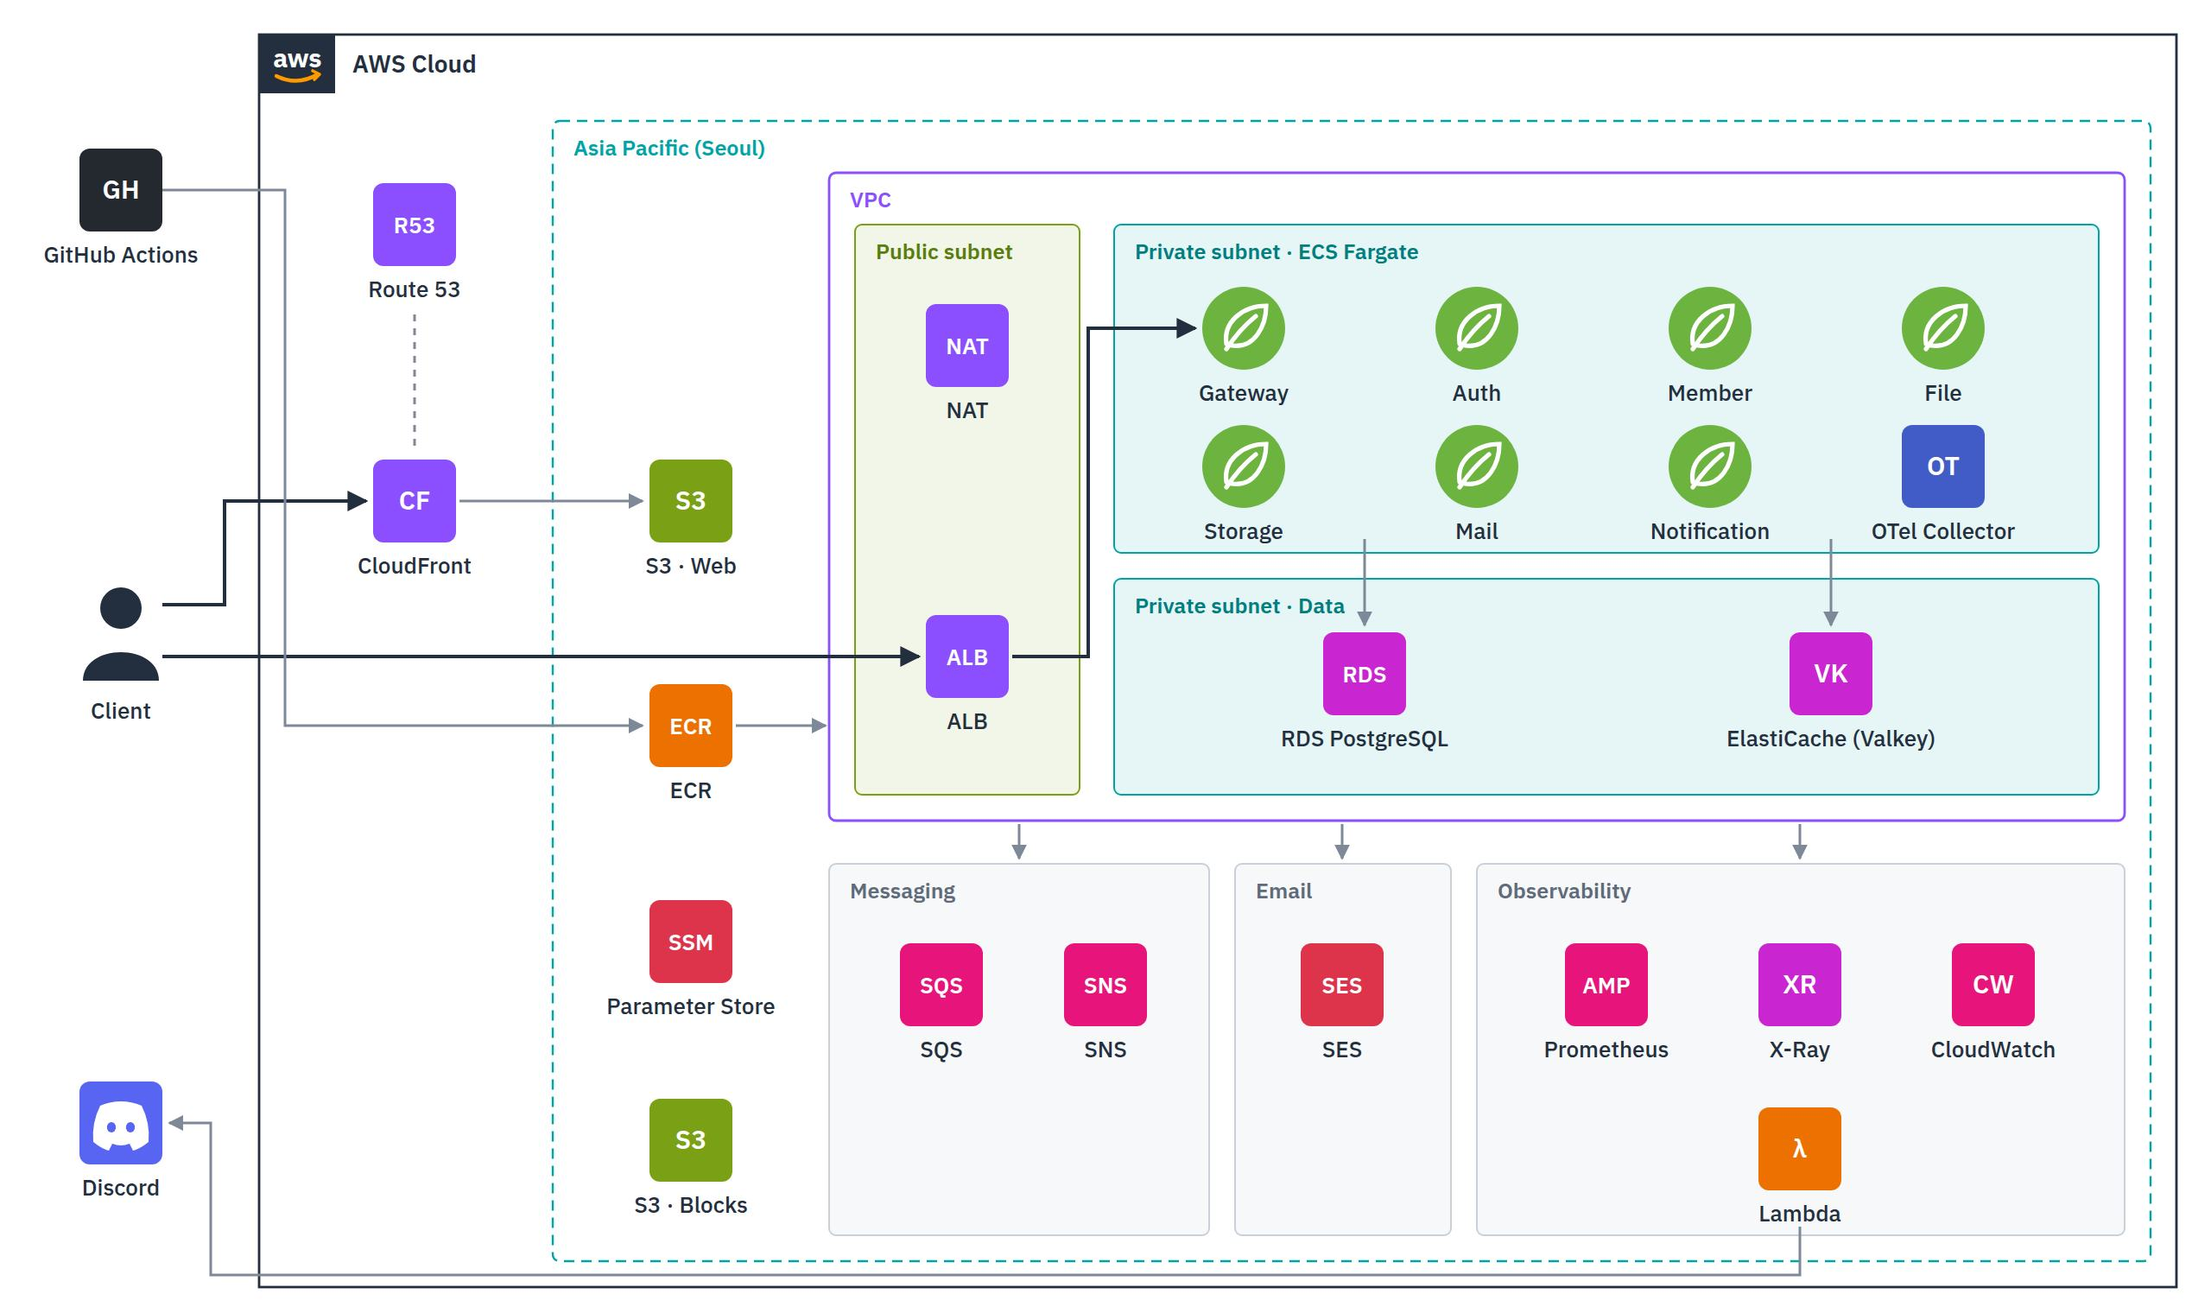
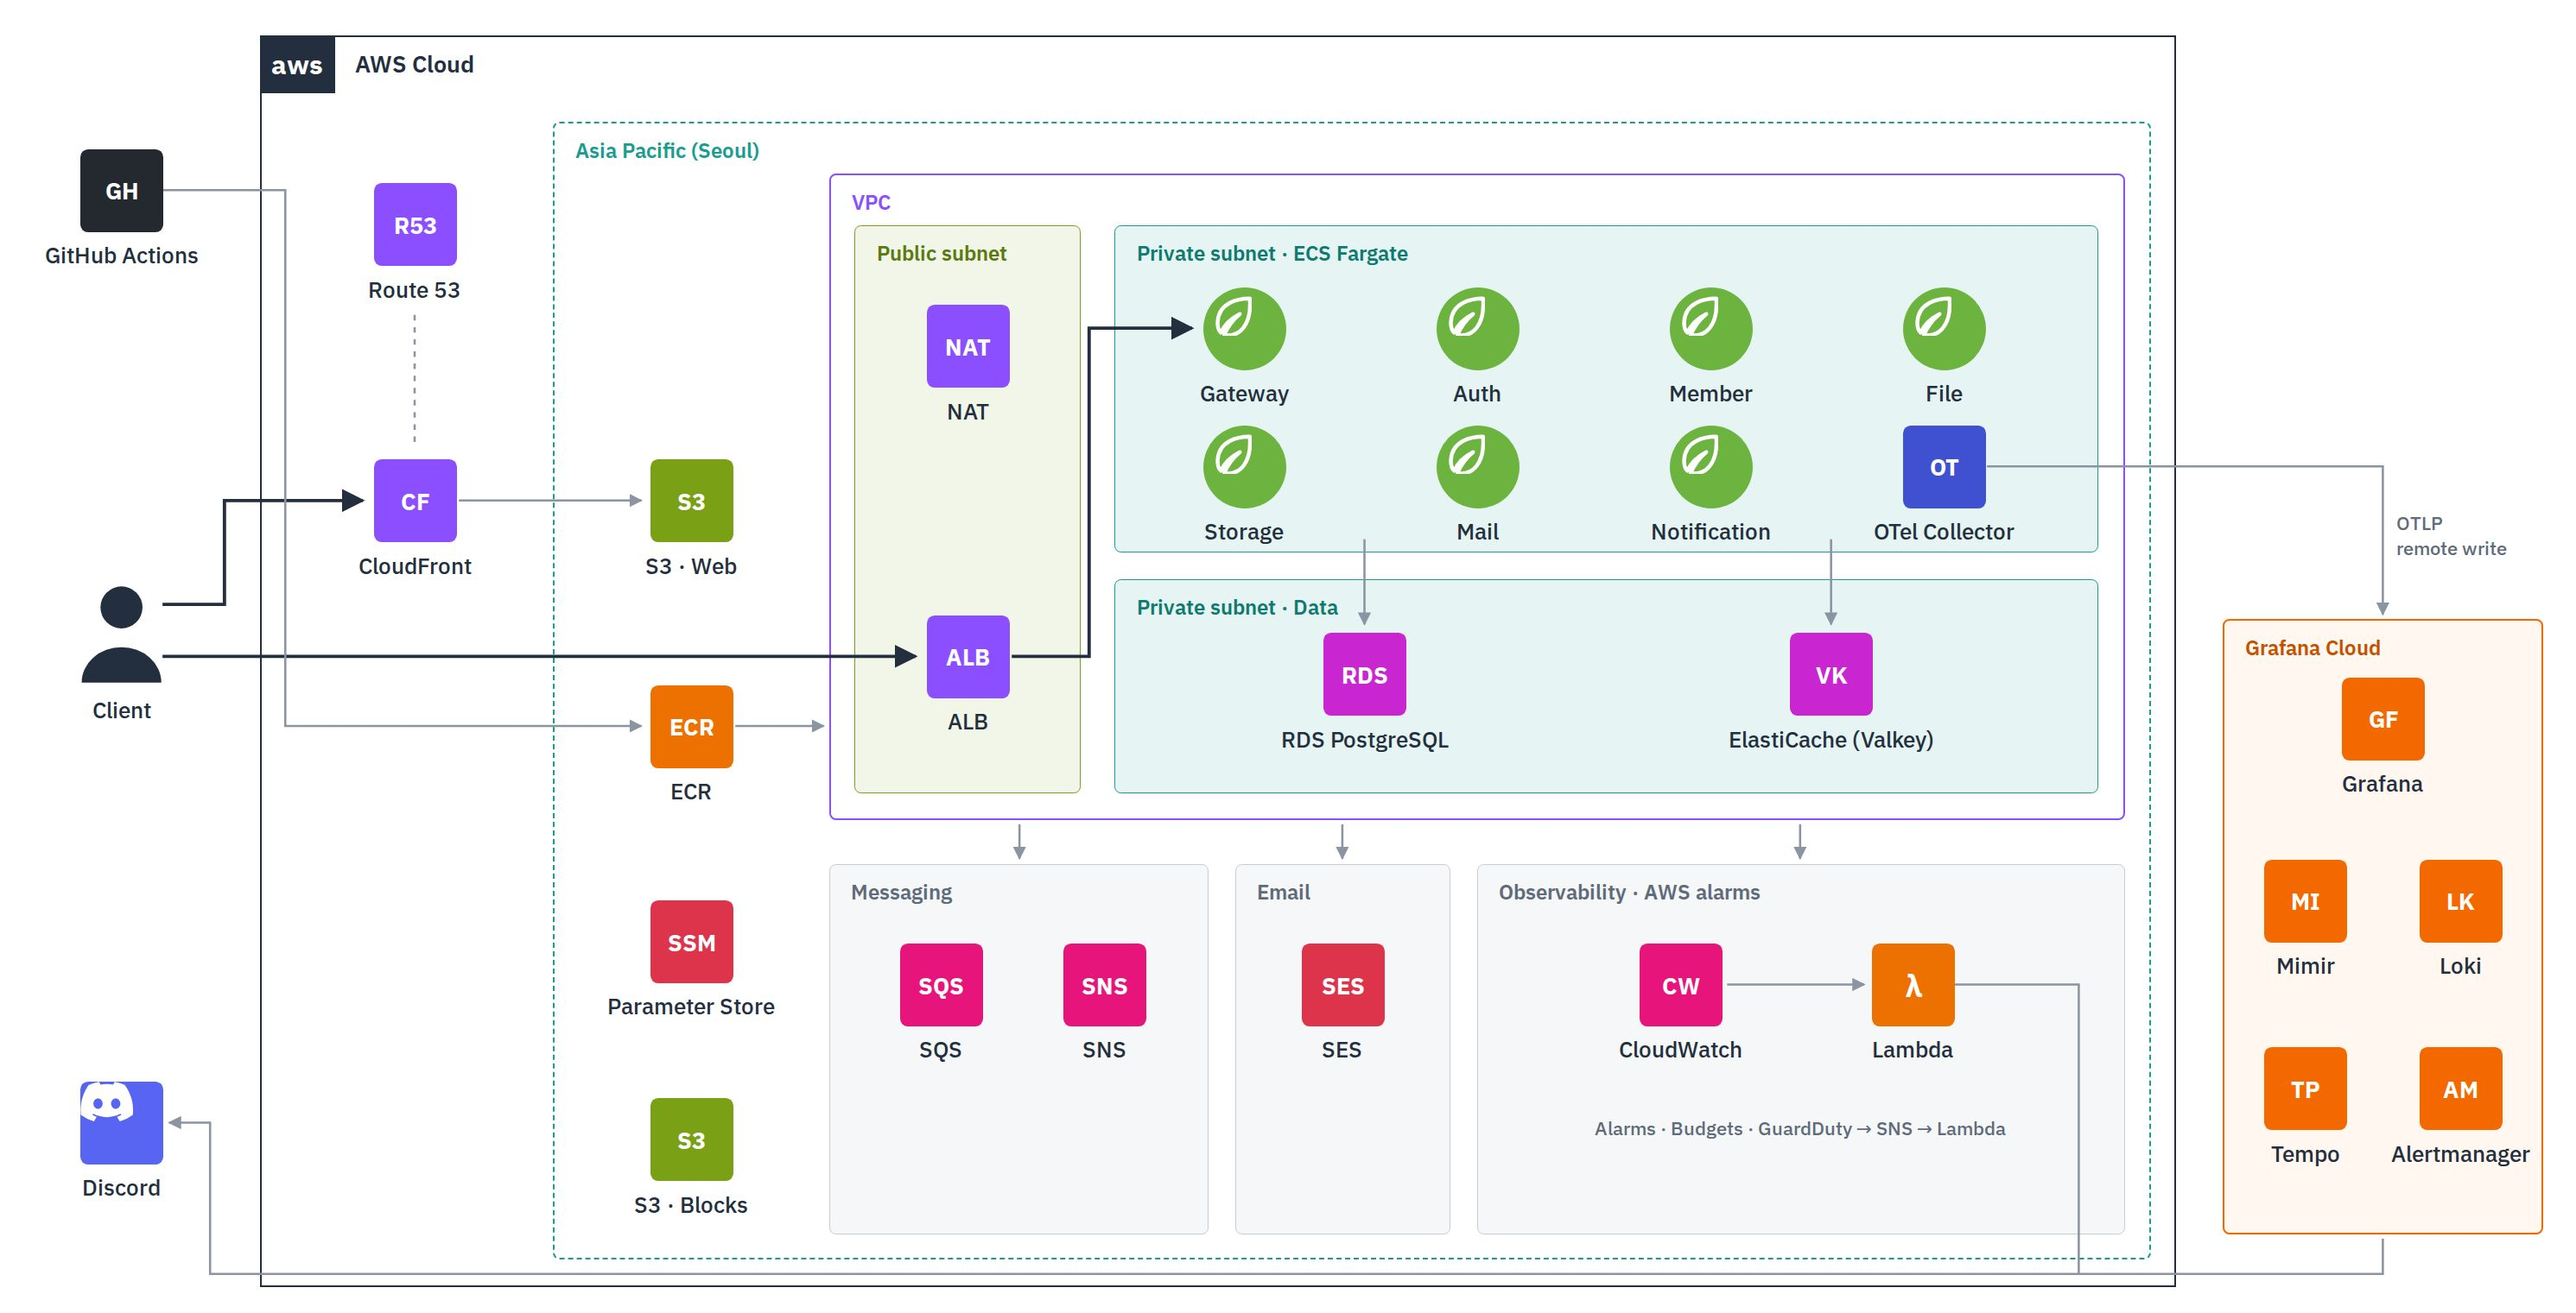
docs: redraw architecture diagram for grafana cloud (#704)

diff --git a/.docs/images/architecture.html b/.docs/images/architecture.html
@@ -1,0 +1,141 @@
+<!doctype html>
+<!-- architecture.jpeg 원본. 고친 뒤 이미지로 뽑는다:
+     chrome-headless-shell --screenshot=architecture.jpeg --window-size=2330,1188 --force-device-scale-factor=1.28 architecture.html -->
+<html>
+<head>
+<meta charset="utf-8">
+<link href="https://fonts.googleapis.com/css2?family=IBM+Plex+Sans:wght@500;600;700&display=block" rel="stylesheet">
+<style>
+  body { margin: 0; width: 2330px; height: 1188px; background: #fff; font-family: "IBM Plex Sans", sans-serif; position: relative; overflow: hidden; }
+  .box { position: absolute; box-sizing: border-box; border-radius: 6px; }
+  .box > .title { position: absolute; left: 19px; top: 12px; font-size: 19px; font-weight: 600; }
+  .tile { position: absolute; width: 75px; height: 75px; margin: -37px 0 0 -37px; border-radius: 7px; color: #fff;
+          font-weight: 700; font-size: 21px; display: flex; align-items: center; justify-content: center; }
+  .spring { border-radius: 50%; background: #6db33f; }
+  .label { position: absolute; transform: translateX(-50%); white-space: nowrap; font-size: 20px; font-weight: 500; color: #232f3e; }
+  svg { position: absolute; left: 0; top: 0; }
+</style>
+</head>
+<body>
+
+<!-- containers -->
+<div class="box" style="left:235px;top:32px;width:1733px;height:1133px;border:2px solid #232f3e;border-radius:0"></div>
+<div class="tile" style="left:269px;top:58px;width:68px;height:52px;margin:-26px 0 0 -34px;border-radius:0;background:#232f3e;font-size:24px">aws</div>
+<div class="label" style="left:375px;top:44px;font-size:21px;font-weight:600">AWS Cloud</div>
+
+<div class="box" style="left:500px;top:110px;width:1445px;height:1030px;border:2px dashed #1a9c8f"><span class="title" style="color:#1a9c8f">Asia Pacific (Seoul)</span></div>
+<div class="box" style="left:750px;top:157px;width:1172px;height:585px;border:2px solid #8c4fff"><span class="title" style="color:#8c4fff">VPC</span></div>
+<div class="box" style="left:773px;top:204px;width:204px;height:514px;border:1.5px solid #7aa116;background:#f2f6e8"><span class="title" style="color:#5a7a10">Public subnet</span></div>
+<div class="box" style="left:1008px;top:204px;width:890px;height:296px;border:1.5px solid #1a9c8f;background:#e6f4f3"><span class="title" style="color:#0f7a70">Private subnet · ECS Fargate</span></div>
+<div class="box" style="left:1008px;top:524px;width:890px;height:194px;border:1.5px solid #1a9c8f;background:#e6f4f3"><span class="title" style="color:#0f7a70">Private subnet · Data</span></div>
+<div class="box" style="left:750px;top:782px;width:343px;height:335px;border:1.5px solid #c9ccd1;background:#f6f7f9"><span class="title" style="color:#5f6b7a">Messaging</span></div>
+<div class="box" style="left:1117px;top:782px;width:195px;height:335px;border:1.5px solid #c9ccd1;background:#f6f7f9"><span class="title" style="color:#5f6b7a">Email</span></div>
+<div class="box" style="left:1336px;top:782px;width:586px;height:335px;border:1.5px solid #c9ccd1;background:#f6f7f9"><span class="title" style="color:#5f6b7a">Observability · AWS alarms</span></div>
+<div class="box" style="left:2010px;top:560px;width:290px;height:557px;border:2px solid #f46800;background:#fff7f0"><span class="title" style="color:#c25200">Grafana Cloud</span></div>
+
+<!-- lines -->
+<svg width="2330" height="1188">
+  <defs>
+    <marker id="d" viewBox="0 0 10 10" refX="9" refY="5" markerWidth="7" markerHeight="7" orient="auto"><path d="M0 0L10 5L0 10z" fill="#232f3e"/></marker>
+    <marker id="g" viewBox="0 0 10 10" refX="9" refY="5" markerWidth="6" markerHeight="6" orient="auto"><path d="M0 0L10 5L0 10z" fill="#8a94a3"/></marker>
+  </defs>
+  <g fill="none" stroke="#232f3e" stroke-width="3" marker-end="url(#d)">
+    <path d="M147 547H203V453H328"/>
+    <path d="M147 594H828"/>
+    <path d="M915 594H985V297H1078"/>
+  </g>
+  <g fill="none" stroke="#8a94a3" stroke-width="2" marker-end="url(#g)">
+    <path d="M147 172H258V657H580"/>
+    <path d="M665 657H745"/>
+    <path d="M415 453H580"/>
+    <path d="M1234 488V565"/>
+    <path d="M1656 488V565"/>
+    <path d="M922 746V777"/>
+    <path d="M1214 746V777"/>
+    <path d="M1628 746V777"/>
+    <path d="M1562 891H1686"/>
+    <path d="M1797 422H2155V556"/>
+    <path d="M2155 1121V1153H190V1016H153"/>
+  </g>
+  <path d="M1768 891H1880V1153" fill="none" stroke="#8a94a3" stroke-width="2"/>
+  <path d="M375 285V405" fill="none" stroke="#8a94a3" stroke-width="2" stroke-dasharray="5 6"/>
+  <text x="2167" y="480" font-size="17" fill="#5f6b7a" font-weight="500">OTLP</text><text x="2167" y="502" font-size="17" fill="#5f6b7a" font-weight="500">remote write</text>
+</svg>
+
+<!-- outside AWS -->
+<div class="tile" style="left:110px;top:172px;background:#24292f">GH</div>
+<div class="label" style="left:110px;top:218px">GitHub Actions</div>
+<svg style="left:72px;top:530px" width="76" height="90"><circle cx="38" cy="20" r="19" fill="#232f3e"/><path d="M2 88a36 32 0 0 1 72 0z" fill="#232f3e"/></svg>
+<div class="label" style="left:110px;top:630px">Client</div>
+<div class="tile" style="left:110px;top:1016px;background:#5865f2"><svg width="48" height="38" viewBox="0 0 48 38"><path fill="#fff" d="M40.6 3.2A39 39 0 0 0 31 .2l-1.2 2.5a36 36 0 0 0-11.6 0L17 .2a39 39 0 0 0-9.6 3C1.3 12.3-.4 21.2.5 30a39 39 0 0 0 11.8 6l2.5-4.1a25 25 0 0 1-4-1.9l1-.8a28 28 0 0 0 24.4 0l1 .8a25 25 0 0 1-4 1.9l2.5 4.1a39 39 0 0 0 11.8-6c1-10.2-1.7-19-7.2-26.8zM16 24.6c-2.3 0-4.2-2.1-4.2-4.7s1.8-4.7 4.2-4.7 4.2 2.1 4.2 4.7-1.9 4.7-4.2 4.7zm16 0c-2.3 0-4.2-2.1-4.2-4.7s1.8-4.7 4.2-4.7 4.2 2.1 4.2 4.7-1.9 4.7-4.2 4.7z"/></svg></div>
+<div class="label" style="left:110px;top:1062px">Discord</div>
+
+<!-- edge -->
+<div class="tile" style="left:375px;top:203px;background:#8c4fff">R53</div>
+<div class="label" style="left:375px;top:249px">Route 53</div>
+<div class="tile" style="left:375px;top:453px;background:#8c4fff">CF</div>
+<div class="label" style="left:375px;top:499px">CloudFront</div>
+<div class="tile" style="left:625px;top:453px;background:#7aa116">S3</div>
+<div class="label" style="left:625px;top:499px">S3 · Web</div>
+<div class="tile" style="left:625px;top:657px;background:#ed7100">ECR</div>
+<div class="label" style="left:625px;top:703px">ECR</div>
+<div class="tile" style="left:625px;top:852px;background:#dd344c">SSM</div>
+<div class="label" style="left:625px;top:898px">Parameter Store</div>
+<div class="tile" style="left:625px;top:1031px;background:#7aa116">S3</div>
+<div class="label" style="left:625px;top:1077px">S3 · Blocks</div>
+
+<!-- VPC -->
+<div class="tile" style="left:875px;top:313px;background:#8c4fff">NAT</div>
+<div class="label" style="left:875px;top:359px">NAT</div>
+<div class="tile" style="left:875px;top:594px;background:#8c4fff">ALB</div>
+<div class="label" style="left:875px;top:640px">ALB</div>
+
+<div class="tile spring" style="left:1125px;top:297px"><svg width="44" height="44" viewBox="-5 -4 44 44"><path d="M37 6C26 6 9 10 8 27c-.3 4 1 8 3 10 3-7 9-13 17-17-6 5-11 11-14 19 13 2 25-8 23-33z" fill="none" stroke="#fff" stroke-width="3.5" stroke-linejoin="round"/></svg></div>
+<div class="label" style="left:1125px;top:343px">Gateway</div>
+<div class="tile spring" style="left:1336px;top:297px"><svg width="44" height="44" viewBox="-5 -4 44 44"><path d="M37 6C26 6 9 10 8 27c-.3 4 1 8 3 10 3-7 9-13 17-17-6 5-11 11-14 19 13 2 25-8 23-33z" fill="none" stroke="#fff" stroke-width="3.5" stroke-linejoin="round"/></svg></div>
+<div class="label" style="left:1336px;top:343px">Auth</div>
+<div class="tile spring" style="left:1547px;top:297px"><svg width="44" height="44" viewBox="-5 -4 44 44"><path d="M37 6C26 6 9 10 8 27c-.3 4 1 8 3 10 3-7 9-13 17-17-6 5-11 11-14 19 13 2 25-8 23-33z" fill="none" stroke="#fff" stroke-width="3.5" stroke-linejoin="round"/></svg></div>
+<div class="label" style="left:1547px;top:343px">Member</div>
+<div class="tile spring" style="left:1758px;top:297px"><svg width="44" height="44" viewBox="-5 -4 44 44"><path d="M37 6C26 6 9 10 8 27c-.3 4 1 8 3 10 3-7 9-13 17-17-6 5-11 11-14 19 13 2 25-8 23-33z" fill="none" stroke="#fff" stroke-width="3.5" stroke-linejoin="round"/></svg></div>
+<div class="label" style="left:1758px;top:343px">File</div>
+<div class="tile spring" style="left:1125px;top:422px"><svg width="44" height="44" viewBox="-5 -4 44 44"><path d="M37 6C26 6 9 10 8 27c-.3 4 1 8 3 10 3-7 9-13 17-17-6 5-11 11-14 19 13 2 25-8 23-33z" fill="none" stroke="#fff" stroke-width="3.5" stroke-linejoin="round"/></svg></div>
+<div class="label" style="left:1125px;top:468px">Storage</div>
+<div class="tile spring" style="left:1336px;top:422px"><svg width="44" height="44" viewBox="-5 -4 44 44"><path d="M37 6C26 6 9 10 8 27c-.3 4 1 8 3 10 3-7 9-13 17-17-6 5-11 11-14 19 13 2 25-8 23-33z" fill="none" stroke="#fff" stroke-width="3.5" stroke-linejoin="round"/></svg></div>
+<div class="label" style="left:1336px;top:468px">Mail</div>
+<div class="tile spring" style="left:1547px;top:422px"><svg width="44" height="44" viewBox="-5 -4 44 44"><path d="M37 6C26 6 9 10 8 27c-.3 4 1 8 3 10 3-7 9-13 17-17-6 5-11 11-14 19 13 2 25-8 23-33z" fill="none" stroke="#fff" stroke-width="3.5" stroke-linejoin="round"/></svg></div>
+<div class="label" style="left:1547px;top:468px">Notification</div>
+<div class="tile" style="left:1758px;top:422px;background:#3f51d1">OT</div>
+<div class="label" style="left:1758px;top:468px">OTel Collector</div>
+
+<div class="tile" style="left:1234px;top:610px;background:#c925d1">RDS</div>
+<div class="label" style="left:1234px;top:656px">RDS PostgreSQL</div>
+<div class="tile" style="left:1656px;top:610px;background:#c925d1">VK</div>
+<div class="label" style="left:1656px;top:656px">ElastiCache (Valkey)</div>
+
+<!-- regional services -->
+<div class="tile" style="left:851px;top:891px;background:#e7157b">SQS</div>
+<div class="label" style="left:851px;top:937px">SQS</div>
+<div class="tile" style="left:999px;top:891px;background:#e7157b">SNS</div>
+<div class="label" style="left:999px;top:937px">SNS</div>
+<div class="tile" style="left:1214px;top:891px;background:#dd344c">SES</div>
+<div class="label" style="left:1214px;top:937px">SES</div>
+<div class="tile" style="left:1520px;top:891px;background:#e7157b">CW</div>
+<div class="label" style="left:1520px;top:937px">CloudWatch</div>
+<div class="tile" style="left:1730px;top:891px;background:#ed7100;font-size:28px">λ</div>
+<div class="label" style="left:1730px;top:937px">Lambda</div>
+<div class="label" style="left:1628px;top:1010px;font-size:17px;color:#5f6b7a">Alarms · Budgets · GuardDuty → SNS → Lambda</div>
+
+<!-- Grafana Cloud -->
+<div class="tile" style="left:2155px;top:650px;background:#f46800">GF</div>
+<div class="label" style="left:2155px;top:696px">Grafana</div>
+<div class="tile" style="left:2085px;top:815px;background:#f46800">MI</div>
+<div class="label" style="left:2085px;top:861px">Mimir</div>
+<div class="tile" style="left:2225px;top:815px;background:#f46800">LK</div>
+<div class="label" style="left:2225px;top:861px">Loki</div>
+<div class="tile" style="left:2085px;top:985px;background:#f46800">TP</div>
+<div class="label" style="left:2085px;top:1031px">Tempo</div>
+<div class="tile" style="left:2225px;top:985px;background:#f46800">AM</div>
+<div class="label" style="left:2225px;top:1031px">Alertmanager</div>
+
+</body>
+</html>
